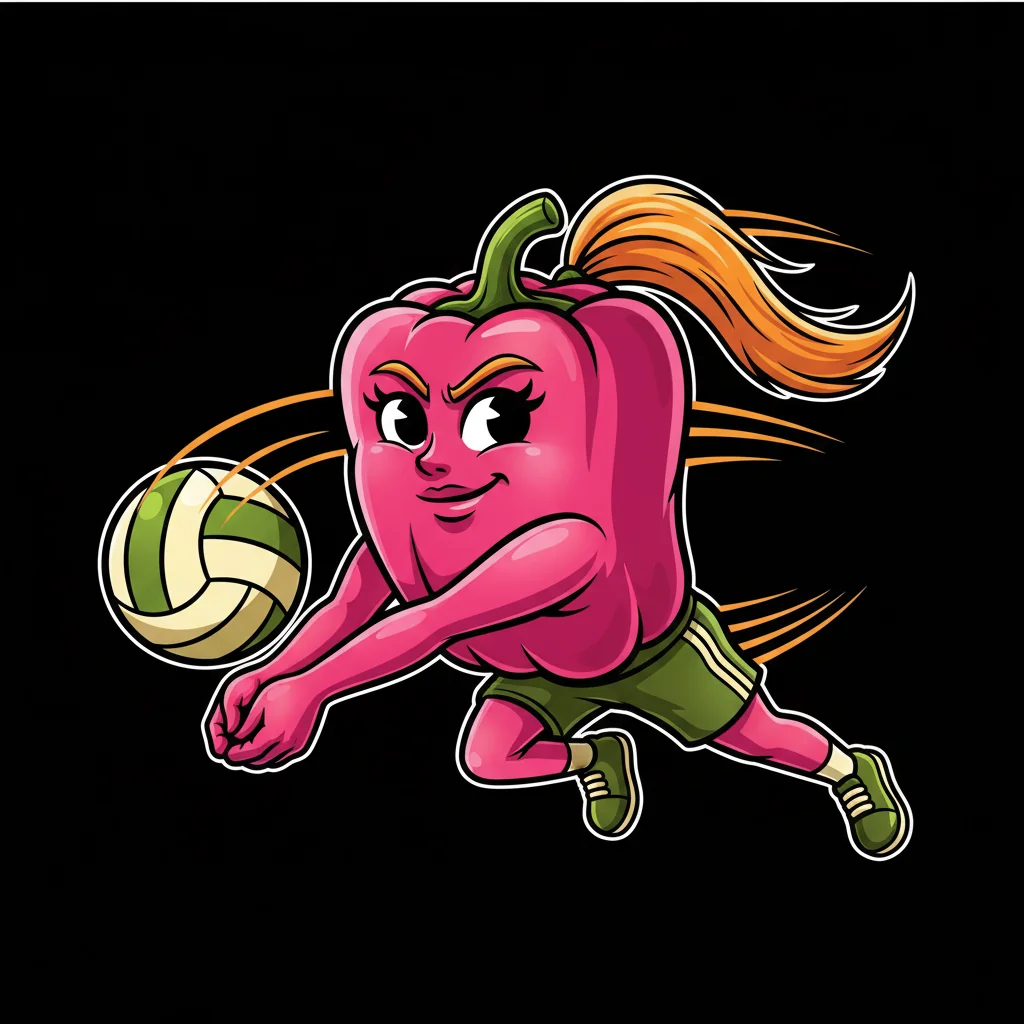
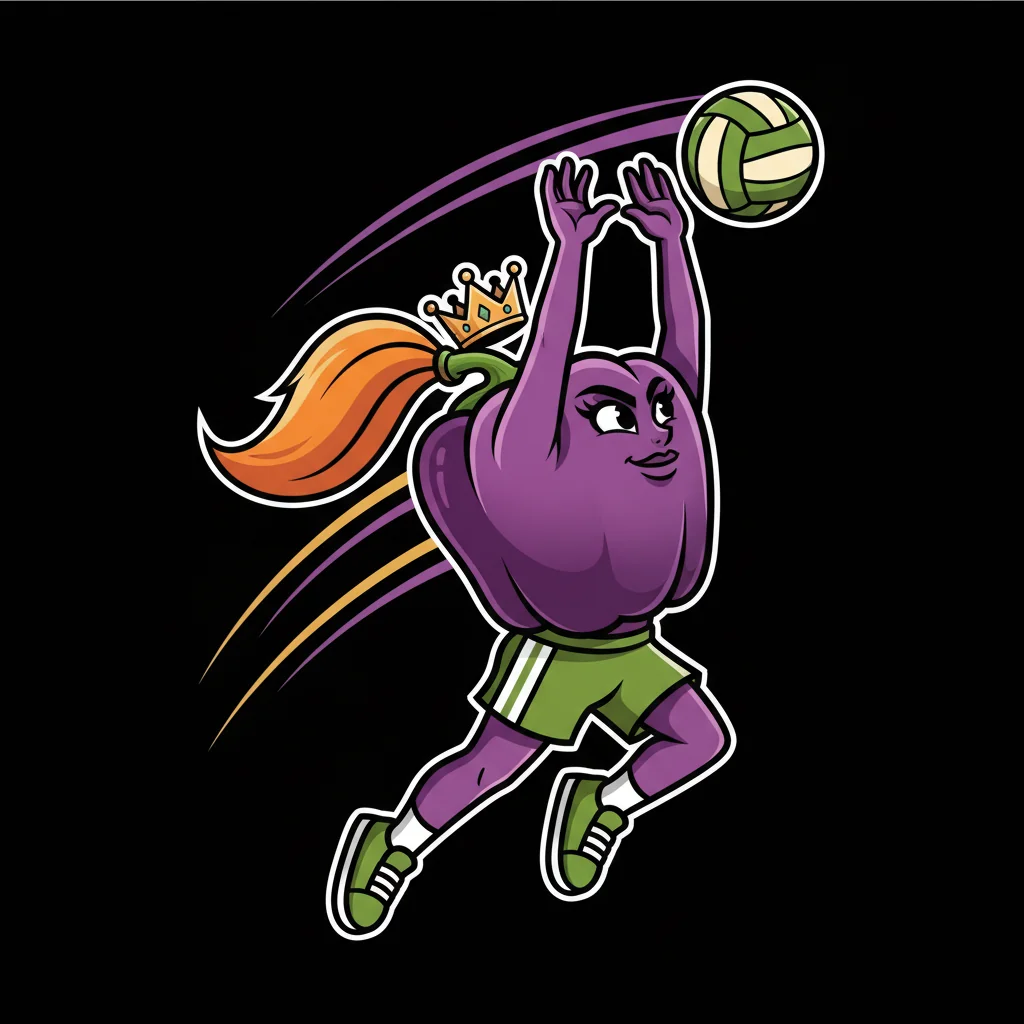
Update Pepper Belle to royal purple theme
- Replace pink mascot with purple bell pepper + gold crown
- Purple conveys royalty and power, not stereotypical femininity
- Crown reinforces "Belle" (queen of the court) messaging
- Update belle-primary color from pink (#f472b6) to purple (#9333ea)
- Update marquee text to white on purple for contrast
- Gold crown accessory signals achievement and excellence

Changed region(s): [[0.0938, 0.0625, 0.9062, 0.9375]]

diff --git a/src/components/Marquee.tsx b/src/components/Marquee.tsx
@@ -30,12 +30,12 @@ interface MarqueeProps {
 const variantStyles = {
   belle: {
     bg: 'bg-belle-primary/90',
-    text: 'text-pepper-black',
-    highlight: 'text-white',
+    text: 'text-white',
+    highlight: 'text-yellow-300',
     gradientFrom: 'from-belle-primary/90',
     gradientVia: 'via-belle-primary/90',
-    buttonBg: 'bg-pepper-black/20 hover:bg-pepper-black/30',
-    buttonText: 'text-pepper-black',
+    buttonBg: 'bg-white/20 hover:bg-white/30',
+    buttonText: 'text-white',
   },
   jalapeno: {
     bg: 'bg-heat-jalapeno/90',

diff --git a/src/app/globals.css b/src/app/globals.css
@@ -22,9 +22,9 @@
     --heat-jalapeno-glow: #ea580c;
     --heat-habanero: #ef4444;
 
-    /* Pepper Belle */
-    --belle-primary: #f472b6;
-    --belle-glow: #ec4899;
+    /* Pepper Belle - Royal Purple */
+    --belle-primary: #9333ea;
+    --belle-glow: #7c3aed;
 
     /* Neutral */
     --text-primary: #fafafa;
